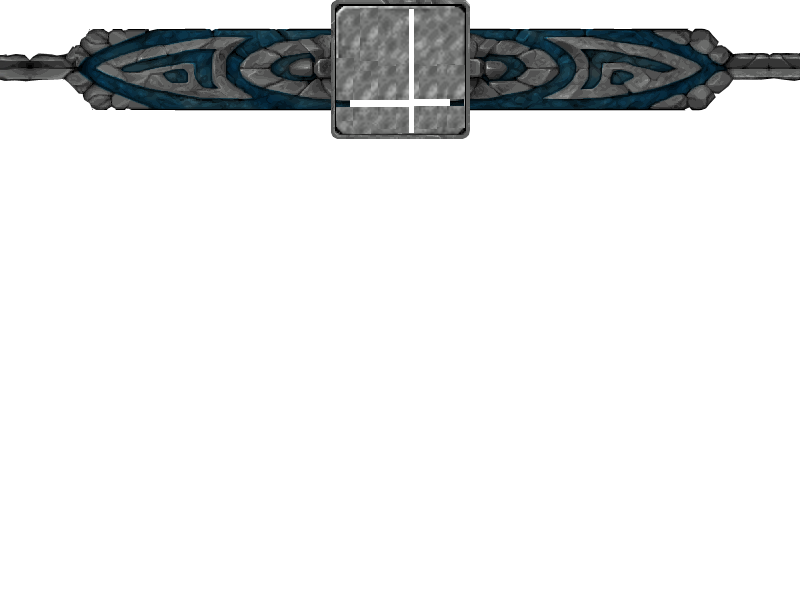
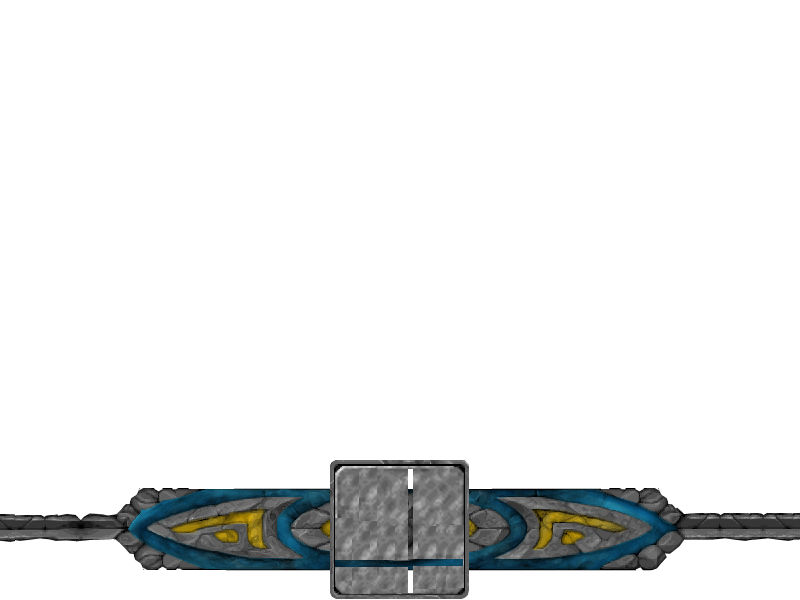
Cambios...

Changed region(s): [[0.0, 0.0, 1.0, 0.24], [0.0, 0.75, 1.0, 1.0]]

diff --git a/src/cScene.h b/src/cScene.h
@@ -8,22 +8,22 @@
 
 //Visible part
 #define SCENE_WIDTH		25
-#define SCENE_HEIGHT	17
+#define SCENE_HEIGHT	15
 
 //Dimension = Area^2
 #define SCENE_AREA		32
 
 //Map coordinate beginning
 #define SCENE_Xo		0
-#define SCENE_Yo		55
+#define SCENE_Yo		0
 #define SCENE_Xf		( SCENE_Xo + (SCENE_WIDTH<<5)  )
 #define SCENE_Yf		( SCENE_Yo + (SCENE_HEIGHT<<5) )
 
 //Radar position (left,top)
 #define RADAR_Xo		336
-#define RADAR_Yo		5
+#define RADAR_Yo		465
 #define RADAR_Xf		464
-#define RADAR_Yf		133
+#define RADAR_Yf		592
 
 // LHA
 #define RADIO_VISIBLE   2

diff --git a/src/Win32Main.cpp b/src/Win32Main.cpp
@@ -30,7 +30,7 @@ LRESULT CALLBACK WindowFunc( HWND hWnd, UINT msg, WPARAM wParam, LPARAM lParam )
 bool InitWindow( HINSTANCE hInst, HWND *hWnd, bool *exclusive )
 {
 	WNDCLASSEX wcl;
-	char szWinName[] = "Game Engine Window";
+	char szWinName[] = "Arkham Escape";
 
 	wcl.cbSize = sizeof( WNDCLASSEX );
 	wcl.hInstance = hInst;
